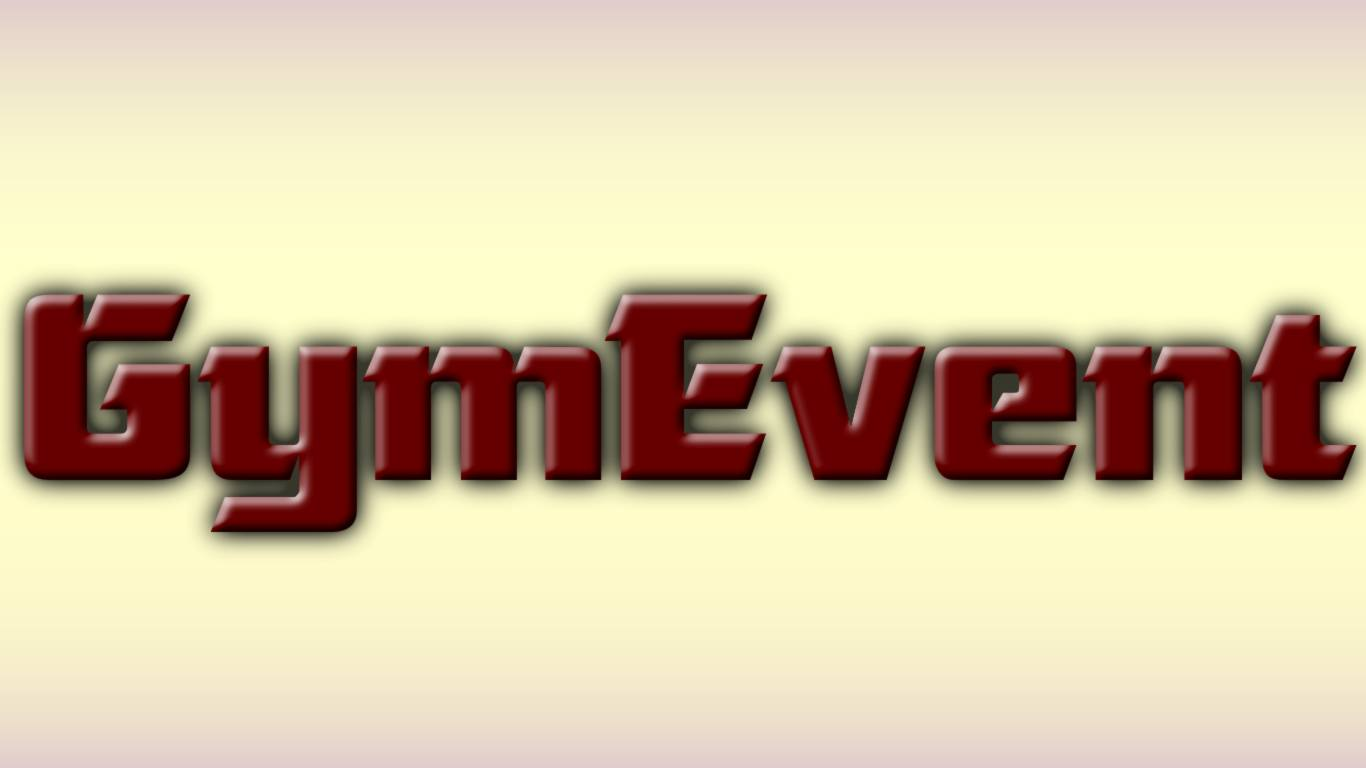
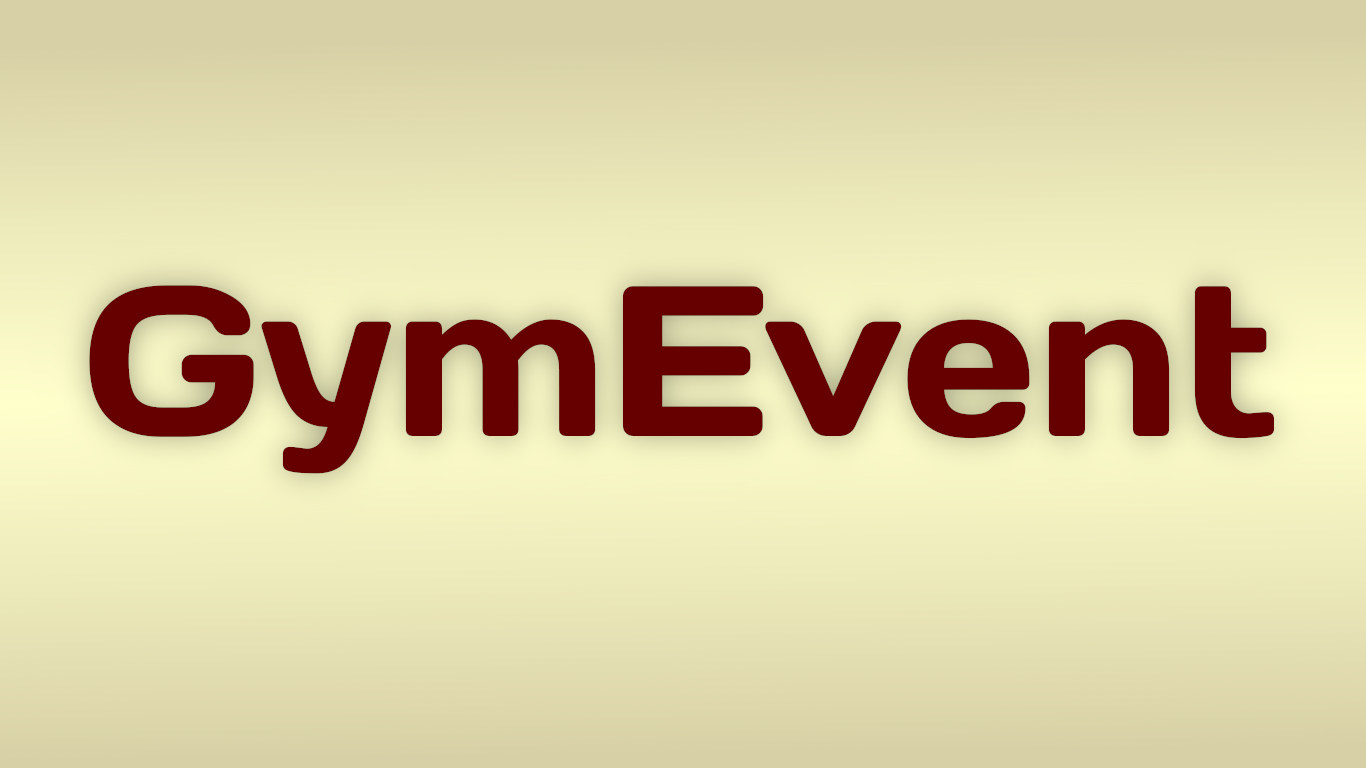
changed theme font
used Days One, it's free for use. Not sure about original font.

diff --git a/dev.ci4/public/public/custom.css b/dev.ci4/public/public/custom.css
@@ -1,0 +1,8 @@
+@font-face {
+    font-family: 'PrimaryFont';
+    src: url('/public/fonts/DaysOne.woff2'); 
+}
+
+h1 {
+	font-family: 'PrimaryFont', var(--bs-font-sans-serif);
+}

diff --git a/dev.ci4/app/Views/admin/profile.php b/dev.ci4/app/Views/admin/profile.php
@@ -1,9 +1,10 @@
 <?php $this->extend('default');
 
 $this->section('content'); ?>
-<ul class="nav"><?php 
+<ul class="nav">
+<li><img src="/favicon.ico" title="favicon"></li>
+<?php 
 $path =  '/public/profile';
-
 foreach(glob(FCPATH . $path .'/*') as $file) {
 	$basename = basename($file);
 	if(strpos($basename, 'index.')!==0) {
@@ -11,5 +12,5 @@ foreach(glob(FCPATH . $path .'/*') as $file) {
 	}
 } 
 ?></ul>
-<p>These images are stored in <?php echo $path;?>.</p>
+<p><span class="p-1 bg-light">These images are stored in <?php echo $path;?>.</span></p>
 <?php $this->endSection(); 

diff --git a/dev.ci4/app/Views/includes/_head.php b/dev.ci4/app/Views/includes/_head.php
@@ -9,7 +9,6 @@
 <link rel="apple-touch-icon" sizes="180x180" href="/public/icons/apple-touch-icon.png">
 <link rel="icon" type="image/png" sizes="32x32" href="/public/icons/favicon-32x32.png">
 <link rel="icon" type="image/png" sizes="16x16" href="/public/icons/favicon-16x16.png">
-<link rel="mask-icon" href="/public/icons/safari-pinned-tab.svg" color="#5bbad5">
 <link rel="stylesheet" type="text/css" href="/public/bootstrap.css">
 <link rel="stylesheet" type="text/css" href="/public/custom.css">
 <script src="/public/jquery-3.6.0.min.js" type="text/javascript"></script>
